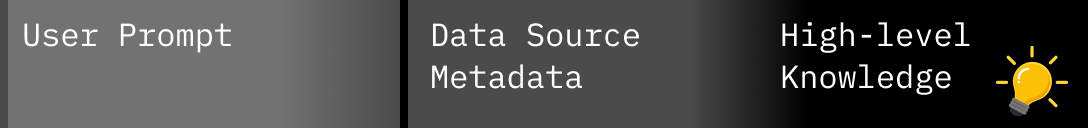
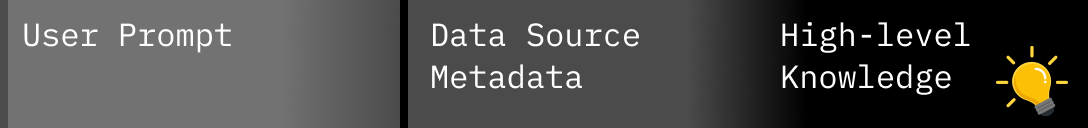
Updated README

Changed region(s): [[0.9062, 0.4688, 1.0, 0.9062]]

diff --git a/README.md b/README.md
@@ -134,10 +134,10 @@ INFO:     Uvicorn running on http://0.0.0.0:8000 (Press CTRL+C to quit)
 
 Once the Bagel MCP server is running, connect it to your preferred LLM.
 Bagel should work with any MCP-enabled LLM, though some setup may be required.
-We’ve tested several LLMs—see the runbooks below for setup instructions.
+We’ve tested several LLMs—expand the runbooks below for setup instructions.
 
 <details>
-  <summary>📚 Runbooks for tested LLMs</summary>
+  <summary>📚 Setup runbooks for tested LLMs</summary>
 
 - [Claude Code](./doc/runbooks/setup/claude_code.md)
 - [Gemini CLI](./doc/runbooks/setup/gemini_cli.md)